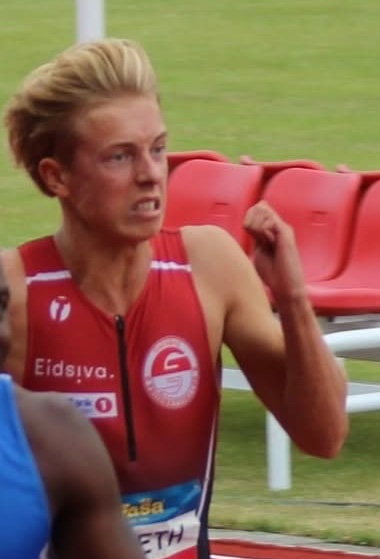
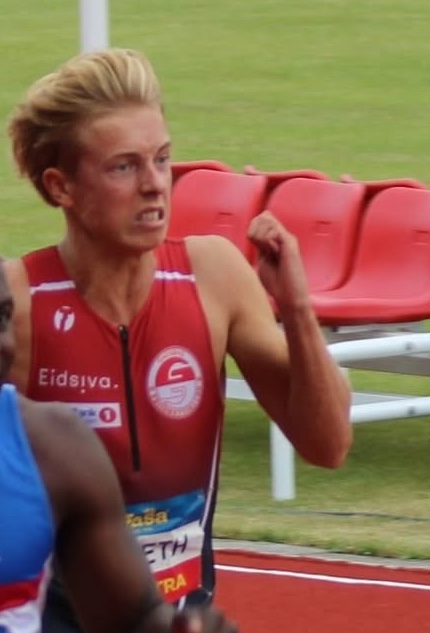
Nye utsnitt av bildene i toppen

diff --git a/index.html b/index.html
@@ -18,7 +18,7 @@
   <link rel="apple-touch-icon" href="bilder/ikon-180.png">
   <link rel="preload" href="fonter/barlow-condensed-700.woff2" as="font" type="font/woff2" crossorigin>
   <link rel="preload" href="fonter/barlow-400.woff2" as="font" type="font/woff2" crossorigin>
-  <link rel="stylesheet" href="stil.css?v=202611221814">
+  <link rel="stylesheet" href="stil.css?v=202611221822">
   <script type="application/ld+json">
   {"@context":"https://schema.org","@type":"SportsOrganization","name":"Gausdal Friidrettsklubb","alternateName":"Gausdal FIK","sport":"Friidrett","url":"https://gausdalfriidrett.no/","logo":"https://gausdalfriidrett.no/bilder/ikon-512.png","foundingDate":"1898-05-06","address":{"@type":"PostalAddress","streetAddress":"Linflåa idrettspark, Baklivegen 1460","postalCode":"2651","addressLocality":"Østre Gausdal","addressCountry":"NO"},"sameAs":["https://www.facebook.com/groups/436427656385045/","https://www.instagram.com/gausdal_friidrett/"]}
   </script>
@@ -76,7 +76,7 @@
           </dl>
         </div>
         <div class="kollasj">
-          <figure class="k1"><img src="bilder/sprint-mesterskap.jpg" width="380" height="559" alt="Sprinter i Gausdal-drakt i full fart på oppløpet under et mesterskap" fetchpriority="high"></figure>
+          <figure class="k1"><img src="bilder/sprint-mesterskap.jpg" width="430" height="633" alt="Sprinter i Gausdal-drakt i full fart på oppløpet under et mesterskap" fetchpriority="high"></figure>
           <figure class="k2"><img src="bilder/klubbhopp.jpg" width="640" height="480" alt="Fem utøvere i klubbjakker hopper samtidig på gresset ved Linflåa"></figure>
           <figure class="k3"><img src="bilder/unge-utovere.jpg" width="750" height="1000" alt="To av klubbens yngste utøvere i røde klubbjakker ved friidrettsbanen"></figure>
         </div>
@@ -505,7 +505,7 @@
     </div>
   </footer>
 
-  <script src="innhold.js?v=202611221814"></script>
-  <script src="app.js?v=202611221814"></script>
+  <script src="innhold.js?v=202611221822"></script>
+  <script src="app.js?v=202611221822"></script>
 </body>
 </html>

diff --git a/forste-stevne.html b/forste-stevne.html
@@ -18,7 +18,7 @@
   <link rel="apple-touch-icon" href="bilder/ikon-180.png">
   <link rel="preload" href="fonter/barlow-condensed-700.woff2" as="font" type="font/woff2" crossorigin>
   <link rel="preload" href="fonter/barlow-400.woff2" as="font" type="font/woff2" crossorigin>
-  <link rel="stylesheet" href="stil.css?v=202611221814">
+  <link rel="stylesheet" href="stil.css?v=202611221822">
   <script>document.documentElement.className += " js";</script>
 </head>
 <body>
@@ -250,7 +250,7 @@
     </div>
   </footer>
 
-  <script src="innhold.js?v=202611221814"></script>
-  <script src="app.js?v=202611221814"></script>
+  <script src="innhold.js?v=202611221822"></script>
+  <script src="app.js?v=202611221822"></script>
 </body>
 </html>

diff --git a/sponsorer.html b/sponsorer.html
@@ -18,7 +18,7 @@
   <link rel="apple-touch-icon" href="bilder/ikon-180.png">
   <link rel="preload" href="fonter/barlow-condensed-700.woff2" as="font" type="font/woff2" crossorigin>
   <link rel="preload" href="fonter/barlow-400.woff2" as="font" type="font/woff2" crossorigin>
-  <link rel="stylesheet" href="stil.css?v=202611221814">
+  <link rel="stylesheet" href="stil.css?v=202611221822">
   <script>document.documentElement.className += " js";</script>
 </head>
 <body>
@@ -174,7 +174,7 @@
     </div>
   </footer>
 
-  <script src="innhold.js?v=202611221814"></script>
-  <script src="app.js?v=202611221814"></script>
+  <script src="innhold.js?v=202611221822"></script>
+  <script src="app.js?v=202611221822"></script>
 </body>
 </html>

diff --git a/stil.css b/stil.css
@@ -297,6 +297,7 @@ a:hover > .pil { transform: translateX(3px); }
 .kollasj .k3 { aspect-ratio: 4 / 3; }
 .kollasj .k1 img { object-position: 50% 40%; }
 .kollasj .k3 img { object-position: 50% 50%; }
+.kollasj .k2 img { transform: scale(1.15); transform-origin: 49% 50%; }
 
 /* ---------- Seksjoner ---------- */
 .del { padding-block: clamp(64px, 9vw, 116px); }

diff --git a/404.html b/404.html
@@ -7,7 +7,7 @@
   <meta name="robots" content="noindex">
   <meta name="theme-color" content="#fffcfa">
   <link rel="icon" href="/bilder/logo.svg" type="image/svg+xml">
-  <link rel="stylesheet" href="/stil.css?v=202611221814">
+  <link rel="stylesheet" href="/stil.css?v=202611221822">
 </head>
 <body>
   <header class="topp">
